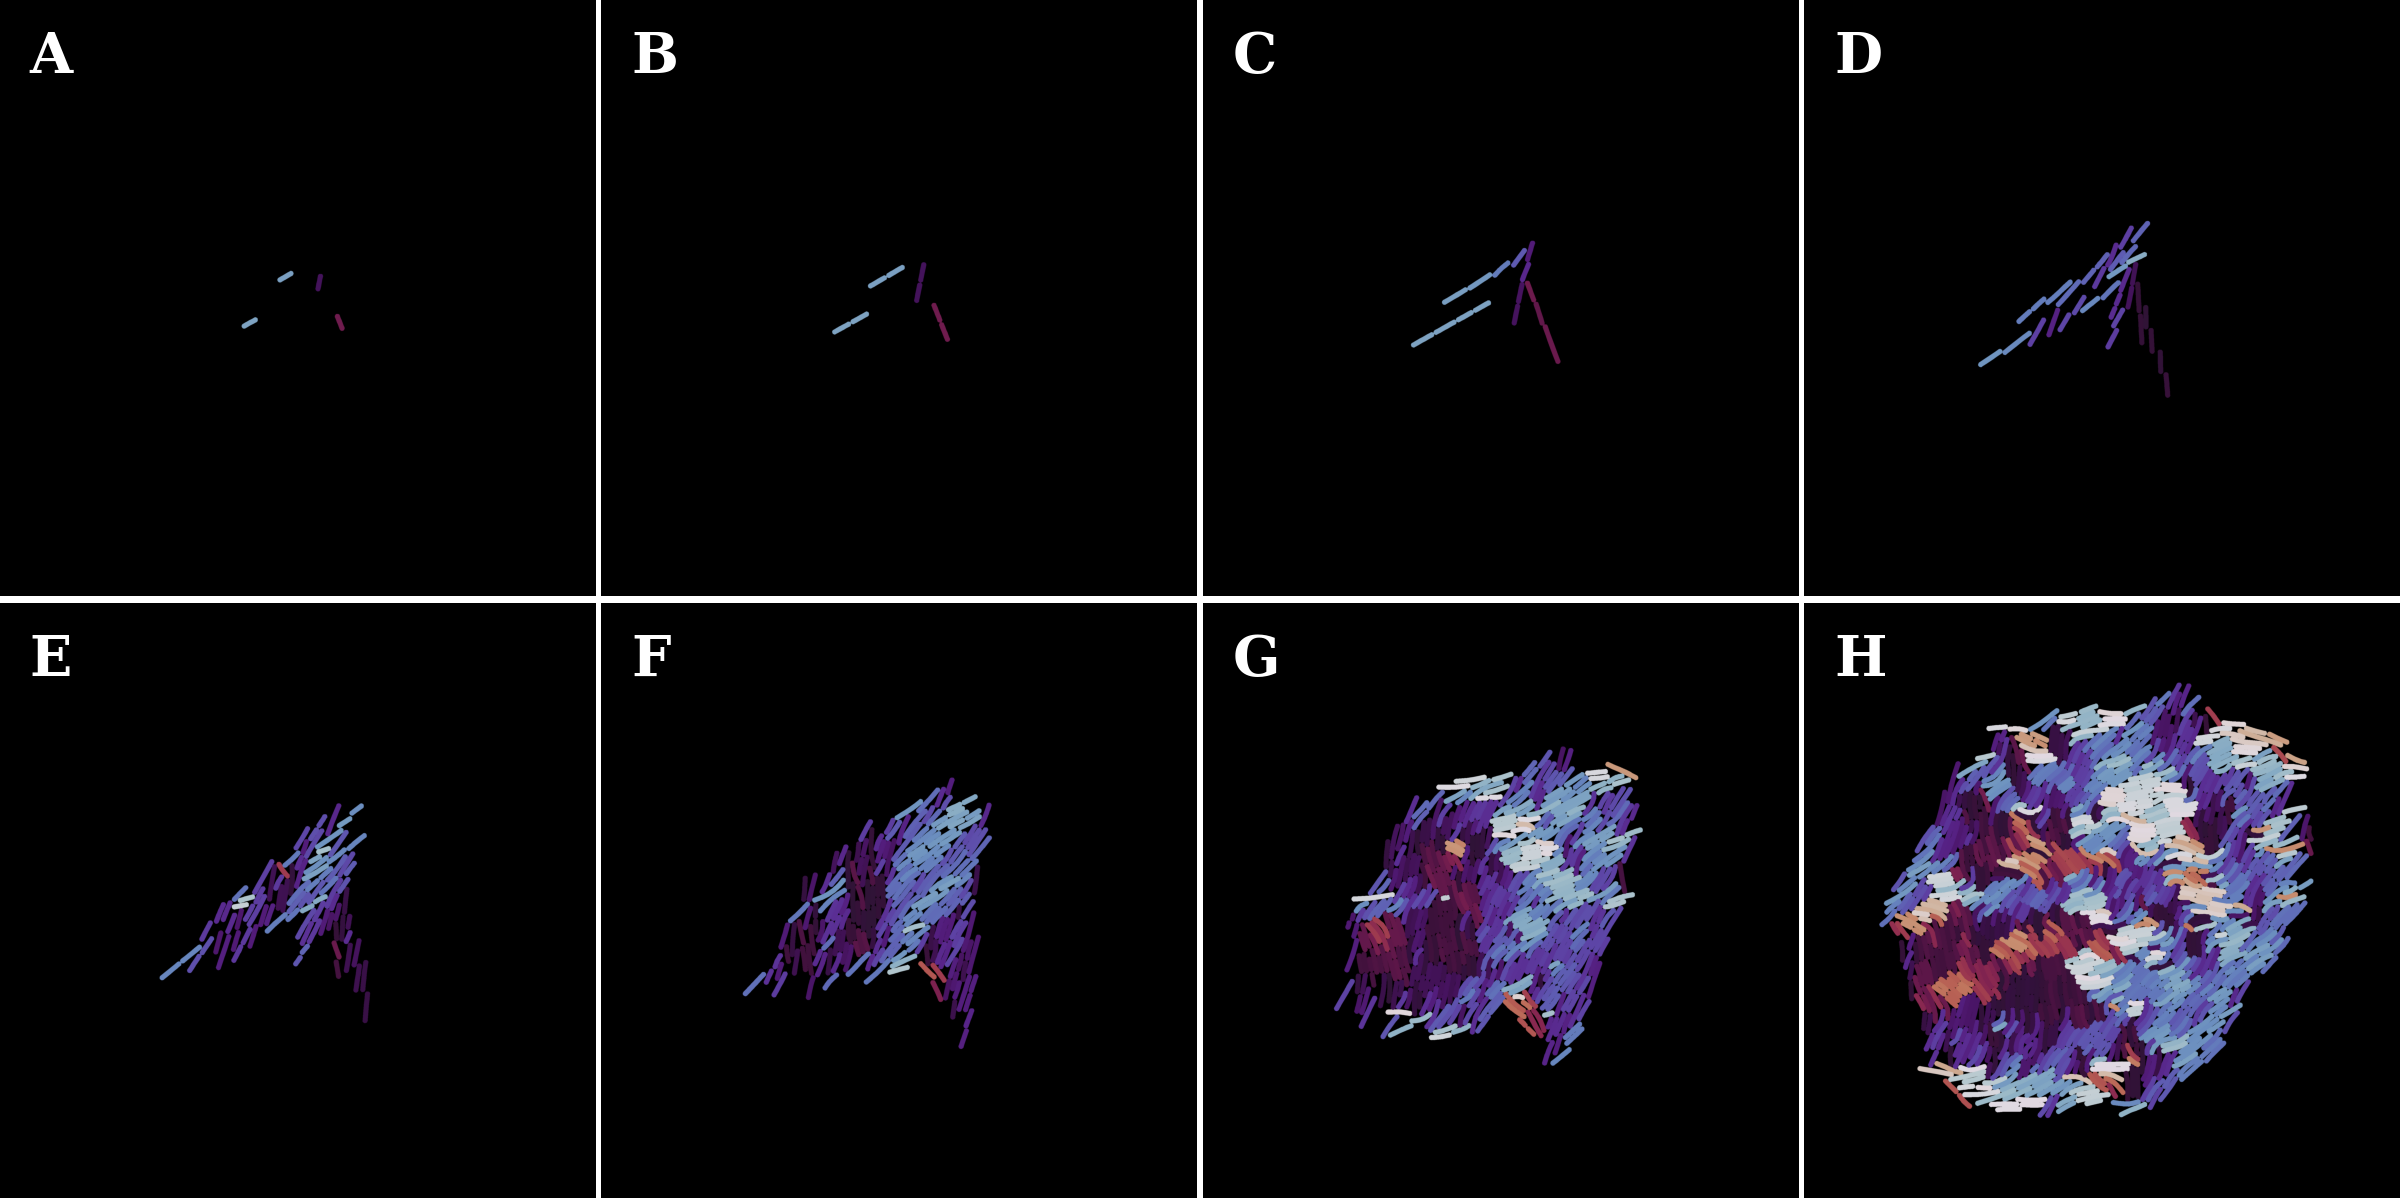
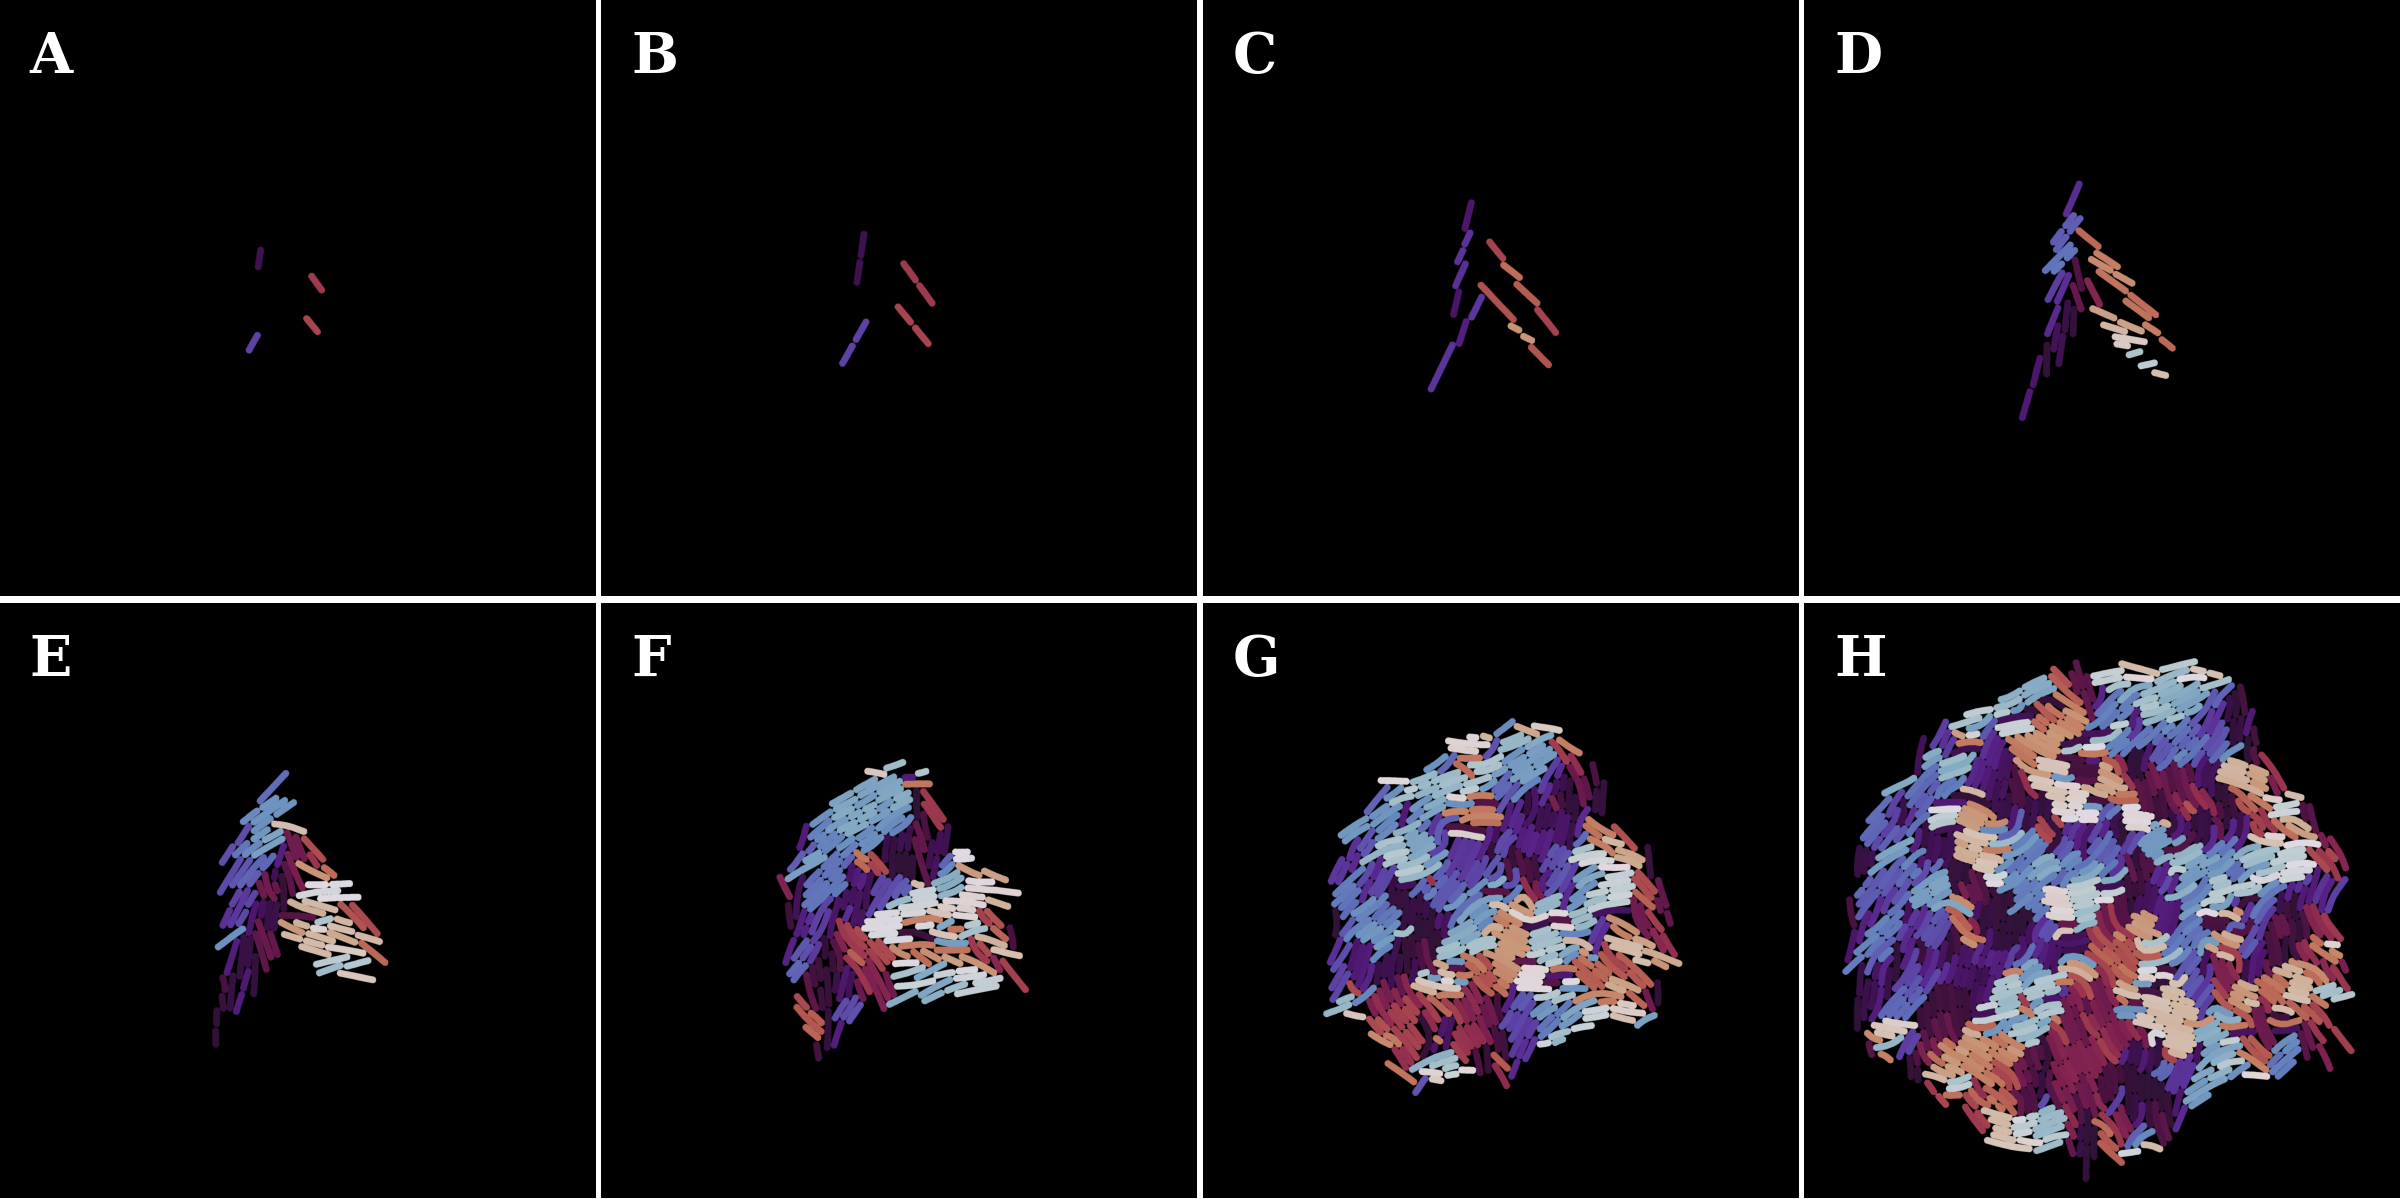
adjust parameters to B.Subtilis (roughly) and generate new results

diff --git a/plots/run_big_sim.py b/plots/run_big_sim.py
@@ -5,34 +5,42 @@ import matplotlib as mpl
 import matplotlib.pyplot as plt
 import string
 
+MINUTE = 1
+HOUR = 60 * MINUTE
+DAY = 24 * HOUR
+MICRON = 1
 
 if __name__ == "__main__":
-    grs = crm.GrowthRateSetter({"mean": 0.01, "std": 0.0015})
-    slts = crm.SpringLengthThresholdSetter({"mean": 8.0, "std": 1.5})
+    grs = crm.GrowthRateSetter({"mean": 0.8 / HOUR, "std": 0.1 / HOUR})
+    slts = crm.SpringLengthThresholdSetter({"mean": 0.9 * MICRON, "std": 0.2 * MICRON})
     agent_settings = crm.AgentSettings(
         growth_rate=grs.mean,
+        spring_length=0.4 * MICRON,
         spring_length_threshold=slts.mean,
-        damping=0.025,
+        damping=0.1 / MINUTE,
+        spring_tension=10 / MINUTE,
+        rigidity=1.1 / MINUTE,
     )
     agent_settings.growth_rate_setter = grs
     agent_settings.spring_length_threshold_setter = slts
 
-    agent_settings.interaction.potential_stiffness = 0.8
-    agent_settings.interaction.strength = 0.3
+    agent_settings.interaction.radius = 0.4 * MICRON
+    agent_settings.interaction.potential_stiffness = 2.0 / MICRON
+    agent_settings.interaction.strength = 1.0 * MICRON**2 / MINUTE**2
     agent_settings.interaction.cutoff = 2.0 * agent_settings.interaction.radius
 
     config = crm.Configuration()
     config.t0 = 0.0
-    config.dt = 0.1
-    config.t_max = 750.0
+    config.dt = 0.02 * MINUTE
+    config.t_max = 9 * HOUR
     config.n_saves = 6
-    config.domain_size = (700, 700)
+    config.domain_size = (70 * MICRON, 70 * MICRON)
     config.n_threads = 14
     config.n_voxels = (14, 14)
 
     config.surface_friction = 0
     config.gel_pressure = 0
-    config.domain_height = 1e-1
+    config.domain_height = 1e-1 * MICRON
 
     def render_img(seed):
         config.progressbar = f"Big Sim seed={seed}"
@@ -75,6 +83,7 @@ if __name__ == "__main__":
             cmap = mpl.colormaps["twilight"]
 
             # Assign color depending on alignment
+            print("N Cells: ", len(sim_result.cells[it]))
             for c in sim_result.cells[it]:
                 cell = sim_result.cells[it][c][0]
                 pos = cell.pos
@@ -93,10 +102,10 @@ if __name__ == "__main__":
                 cell_to_color,
                 (config.domain_size[0], config.domain_size[1]),
                 resolution=(
-                    int(config.domain_size[0] * 4),
-                    int(config.domain_size[1] * 4),
+                    int(config.domain_size[0] * 40),
+                    int(config.domain_size[1] * 40),
                 ),
-                epsilon=0.1,
+                epsilon=1.0,
             )
 
             ax.imshow(img, aspect="equal")
@@ -119,4 +128,4 @@ if __name__ == "__main__":
 
         fig.savefig("docs/source/_static/big-sim-series.png")
 
-    render_img(3)
+    render_img(7)
